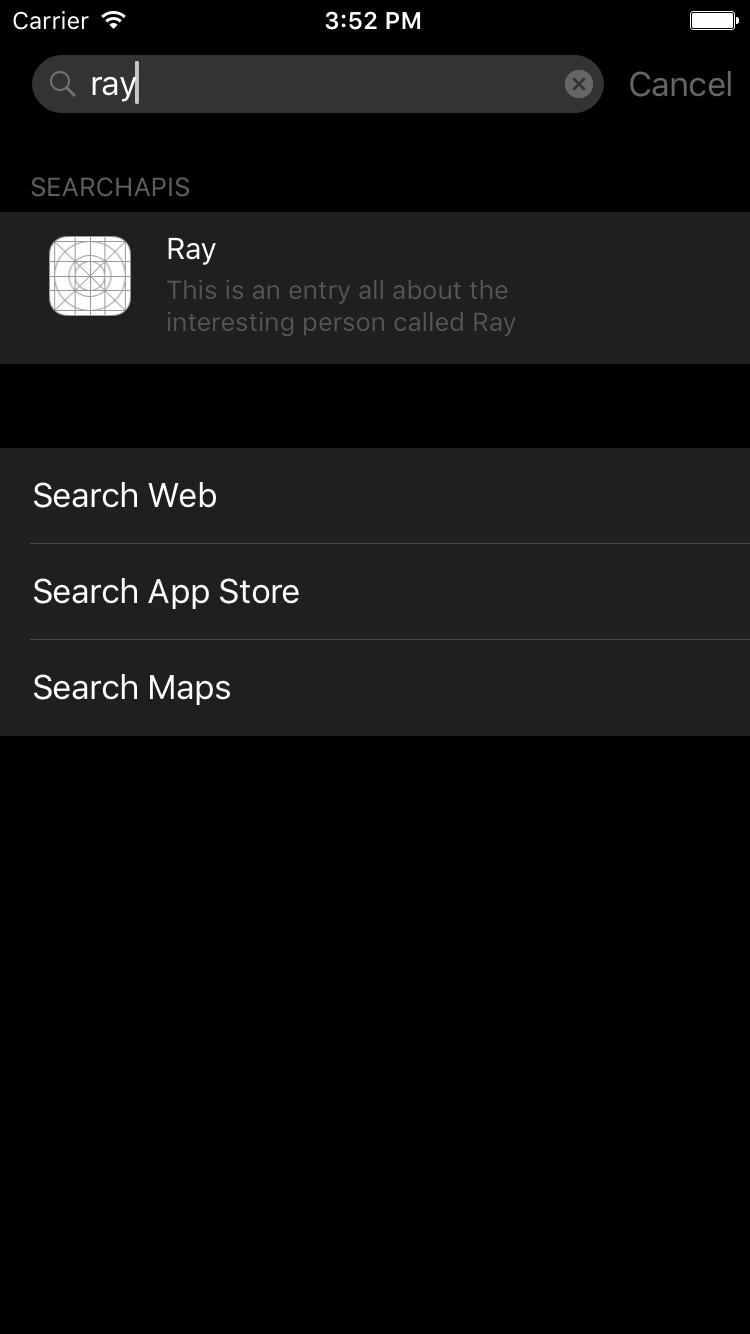
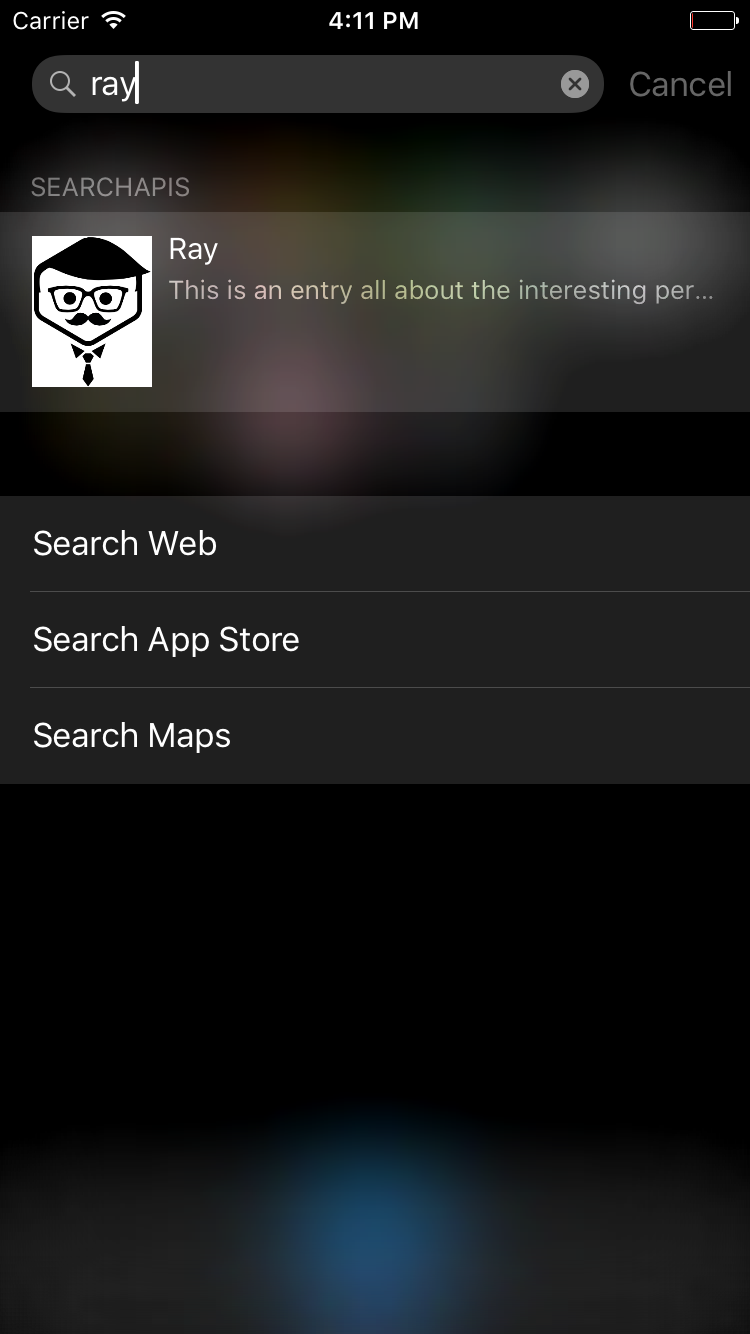
Replaced the search APIs screenshot with one that shows it working in beta 2.

diff --git a/01-Search-APIs/SearchAPIs.md b/01-Search-APIs/SearchAPIs.md
@@ -74,7 +74,7 @@ The final step is to call `indexSearchableItems` on the default `CSSearchableInd
 
 And that's it! When you run your application, the data will be stored. When you search in spotlight, your friends should appear!
 
-![As you can see from the screenshot, there's a known issue in iOS9 beta 1 where thumbnail images don't show in Spotlight.](images/searchResults.png)
+![As you can see from the screenshot, the details about the person and a thumbnail image appear in spotlight search results](images/searchResults.png)
 
 ###Responding to User Selection
 Now users can see your results in Spotlight, hopefully they will tap on them! But what happens when they do? Well, at the minute, tapping a result will just open the main screen of your app. If you wish to display the friend that the user tapped on, there's a little more work involved. We can specify our app's behaviour when it is opened this way through the `continueUserActivity` `UIApplicationDelegate` method in the app's `AppDelegate`.
